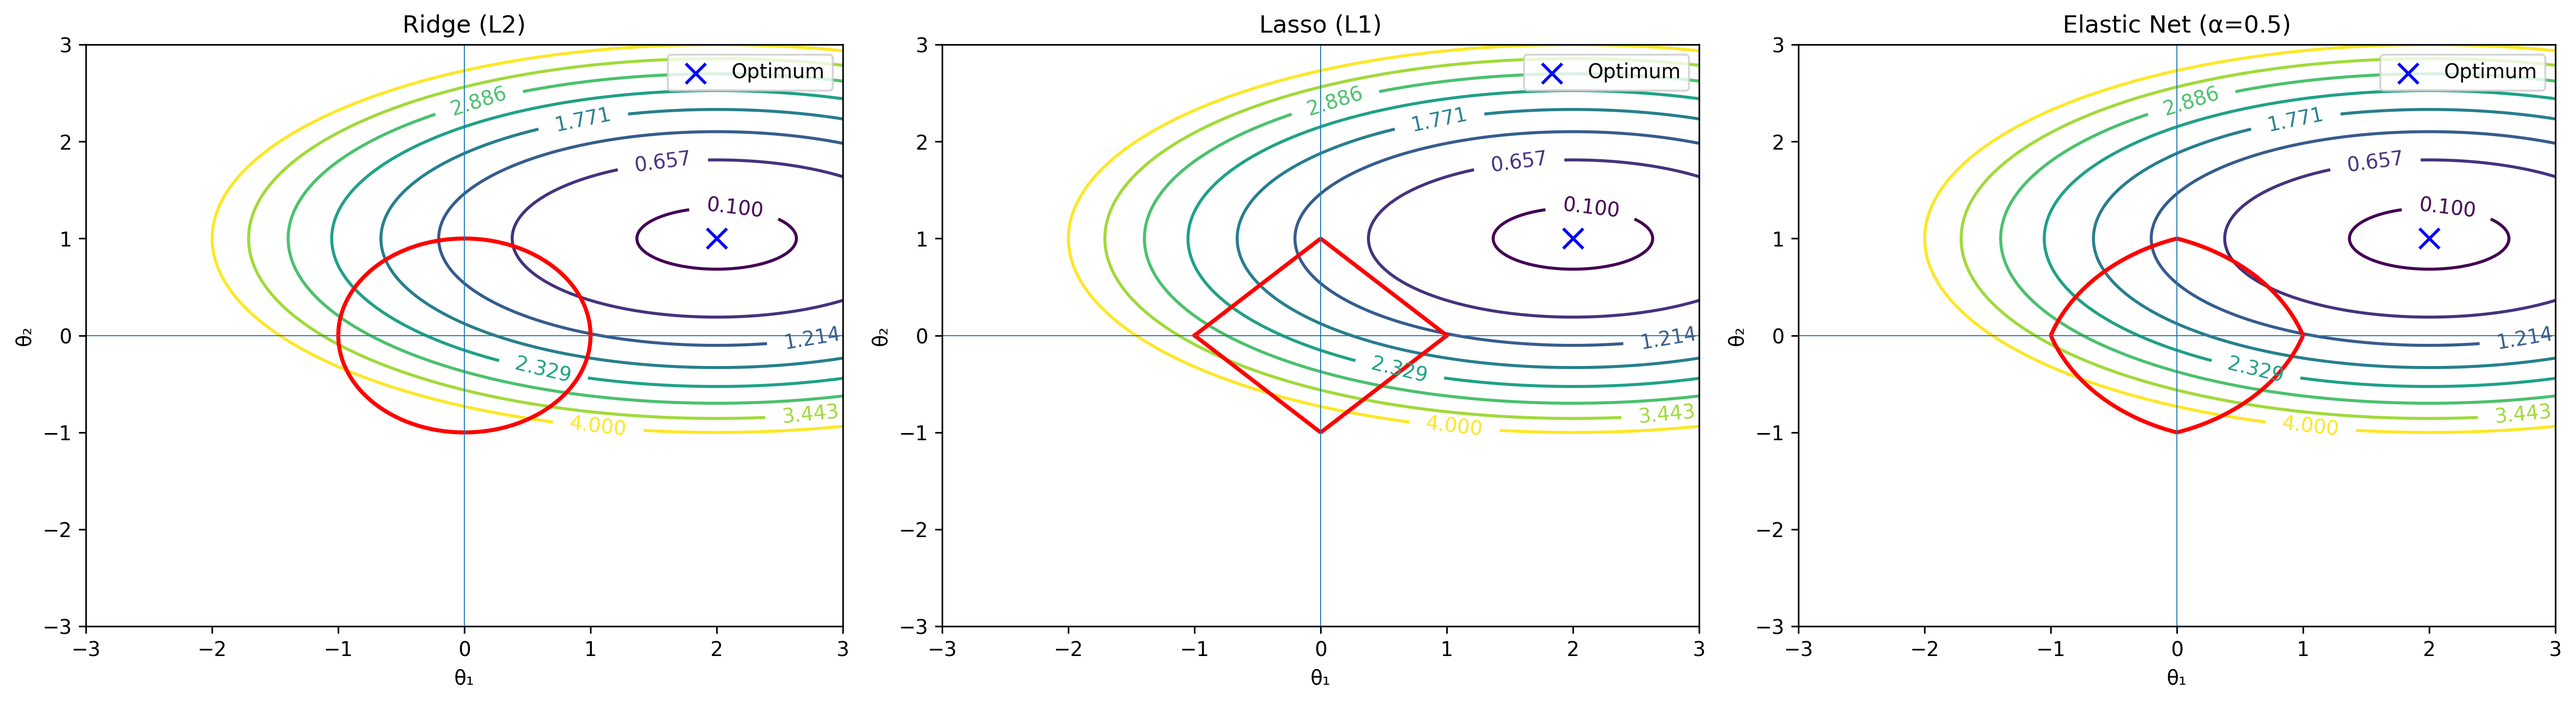
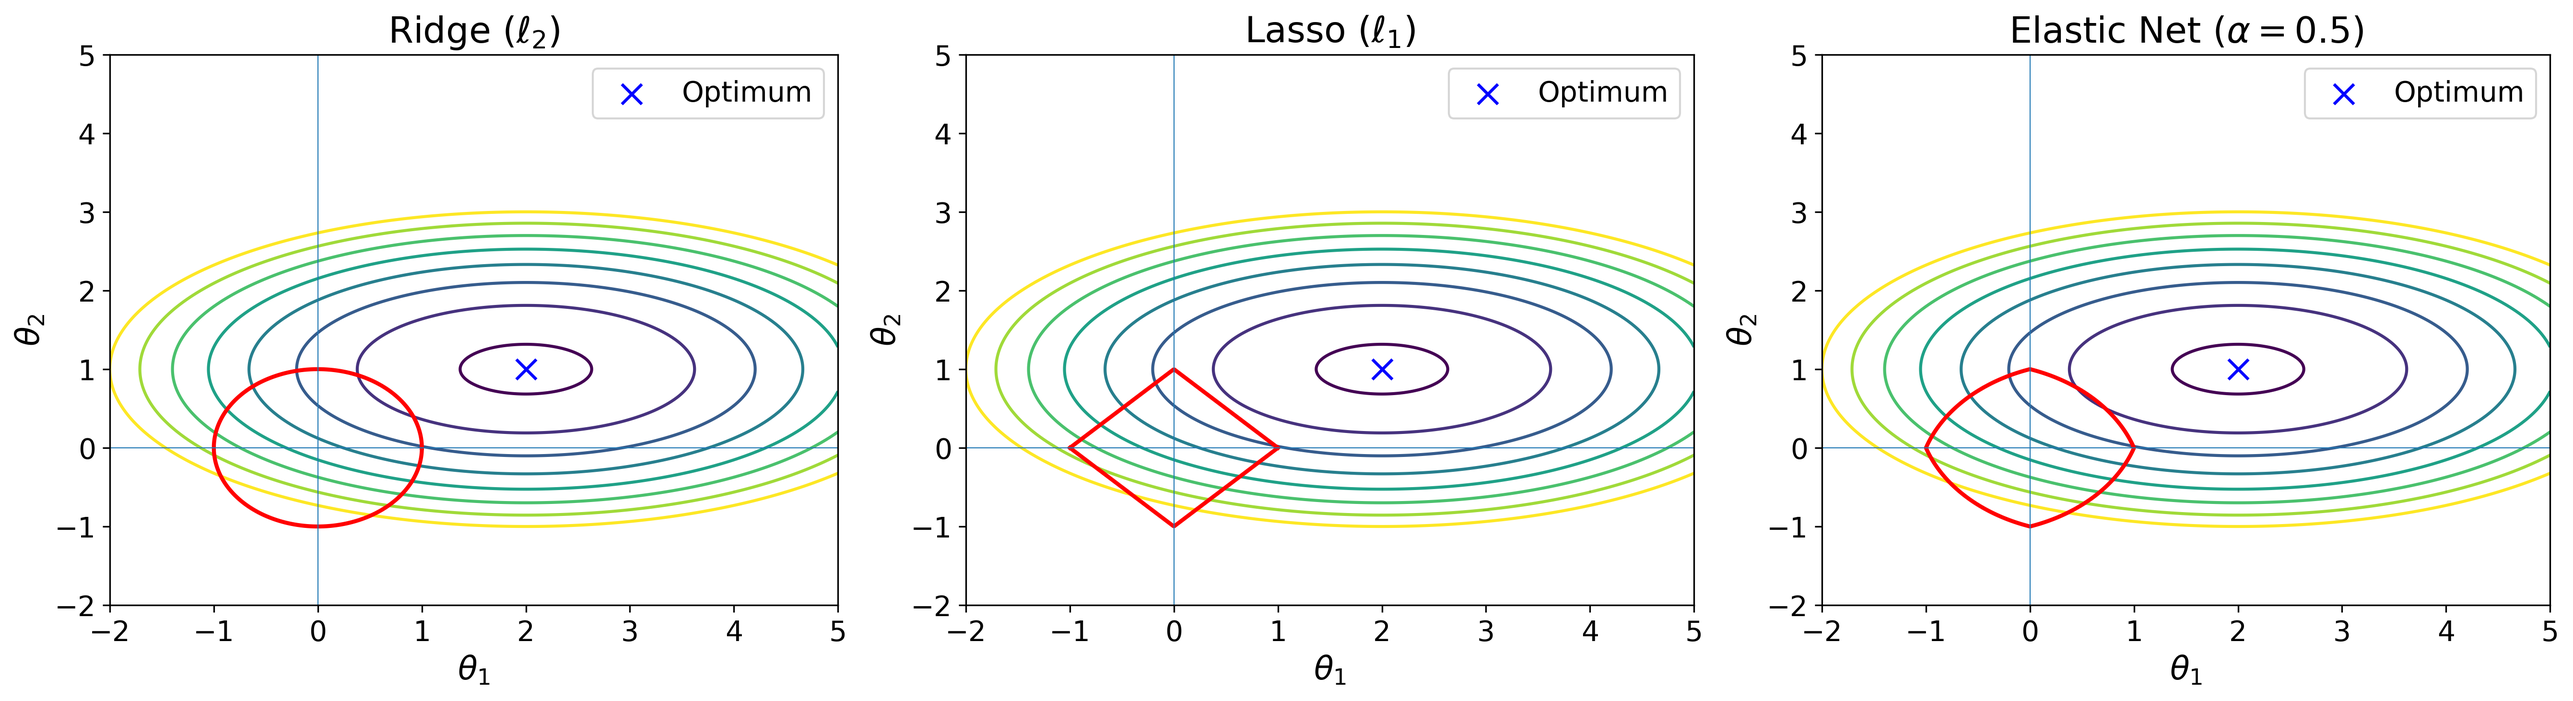
Plots for regularizers

diff --git a/Regularizer_plots.py b/Regularizer_plots.py
@@ -2,69 +2,71 @@ import numpy as np
 import os
 import matplotlib.pyplot as plt
 
-# Grid for theta parameters
-theta1 = np.linspace(-3, 3, 400)
-theta2 = np.linspace(-3, 3, 400)
+# --- 1) Global settings for font sizes ---
+plt.rcParams.update({
+    'figure.figsize': (18, 5),
+    'axes.titlesize': 18,
+    'axes.labelsize': 16,
+    'xtick.labelsize': 14,
+    'ytick.labelsize': 14,
+    'legend.fontsize': 14
+})
+
+# --- 2) Data setup ---
+theta1 = np.linspace(-2, 5, 400)
+theta2 = np.linspace(-2, 5, 400)
 T1, T2 = np.meshgrid(theta1, theta2)
 
-# Unconstrained minimizer (center of J)
 opt1, opt2 = 2.0, 1.0
-
-# Cost function J contours centered at (opt1, opt2)
 J = ((T1 - opt1) / 2)**2 + (T2 - opt2)**2
 
-# Elastic Net parameters
-alpha = 0.5  # weight between L1 and L2
+alpha = 0.5
 penalty_en = alpha * (np.abs(T1) + np.abs(T2)) + (1 - alpha) * (T1**2 + T2**2)
 
-fig, axes = plt.subplots(1, 3, figsize=(18, 5))
+# --- 3) Plotting ---
+fig, axes = plt.subplots(1, 3)
 
-# Ridge (L2)
-cs0 = axes[0].contour(T1, T2, J, levels=np.linspace(0.1, 4, 8))
-axes[0].clabel(cs0)
+# Ridge (ℓ₂)
+axes[0].contour(T1, T2, J, levels=np.linspace(0.1, 4, 8))   # no clabel here
 theta = np.linspace(0, 2 * np.pi, 200)
-axes[0].plot(np.cos(theta), np.sin(theta), 'r-', linewidth=2)  # L2 ball at origin
+axes[0].plot(np.cos(theta), np.sin(theta), 'r-', linewidth=2)
 axes[0].scatter(opt1, opt2, color='blue', marker='x', s=100, label='Optimum')
-axes[0].set_title("Ridge (L2)")
-axes[0].set_xlabel("θ₁")
-axes[0].set_ylabel("θ₂")
+axes[0].set_title(r"Ridge ($\ell_2$)")
+axes[0].set_xlabel(r"$\theta_1$")
+axes[0].set_ylabel(r"$\theta_2$")
 axes[0].legend()
 axes[0].axhline(0, linewidth=0.5)
 axes[0].axvline(0, linewidth=0.5)
 
-# Lasso (L1)
-cs1 = axes[1].contour(T1, T2, J, levels=np.linspace(0.1, 4, 8))
-axes[1].clabel(cs1)
+# Lasso (ℓ₁)
+axes[1].contour(T1, T2, J, levels=np.linspace(0.1, 4, 8))   # no clabel here
 x = np.linspace(-1, 1, 200)
 axes[1].plot(x, 1 - np.abs(x), 'r-', linewidth=2)
 axes[1].plot(x, -1 + np.abs(x), 'r-', linewidth=2)
 axes[1].scatter(opt1, opt2, color='blue', marker='x', s=100, label='Optimum')
-axes[1].set_title("Lasso (L1)")
-axes[1].set_xlabel("θ₁")
-axes[1].set_ylabel("θ₂")
+axes[1].set_title(r"Lasso ($\ell_1$)")
+axes[1].set_xlabel(r"$\theta_1$")
+axes[1].set_ylabel(r"$\theta_2$")
 axes[1].legend()
 axes[1].axhline(0, linewidth=0.5)
 axes[1].axvline(0, linewidth=0.5)
 
 # Elastic Net
-cs2 = axes[2].contour(T1, T2, J, levels=np.linspace(0.1, 4, 8))
-axes[2].clabel(cs2)
+axes[2].contour(T1, T2, J, levels=np.linspace(0.1, 4, 8))   # no clabel here either
 ce = axes[2].contour(T1, T2, penalty_en, levels=[1], colors='r', linewidths=2)
-axes[2].clabel(ce, fmt={1: 'α·∥θ∥₁+(1-α)·∥θ∥₂²=1'})
+axes[2].clabel(ce, fmt={1: 'α·∥θ∥₁+(1-α)·∥θ∥₂²=1'}, fontsize=12)  # only label the EN curve
 axes[2].scatter(opt1, opt2, color='blue', marker='x', s=100, label='Optimum')
-axes[2].set_title("Elastic Net (α=0.5)")
-axes[2].set_xlabel("θ₁")
-axes[2].set_ylabel("θ₂")
+axes[2].set_title(r"Elastic Net ($\alpha=0.5$)")
+axes[2].set_xlabel(r"$\theta_1$")
+axes[2].set_ylabel(r"$\theta_2$")
 axes[2].legend()
 axes[2].axhline(0, linewidth=0.5)
 axes[2].axvline(0, linewidth=0.5)
 
 plt.tight_layout()
 
-# ensure the directory exists
+# ensure the directory exists and save
 os.makedirs("figs", exist_ok=True)
-
-# save the current figure (or use fig.savefig if you kept a reference to it)
 plt.savefig("figs/contours.png", dpi=300, bbox_inches="tight")
 
 plt.show()
